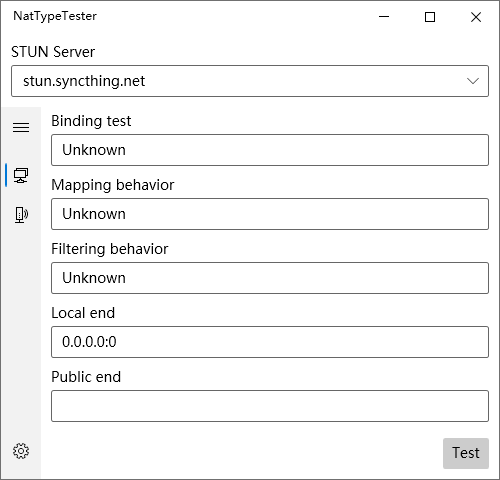
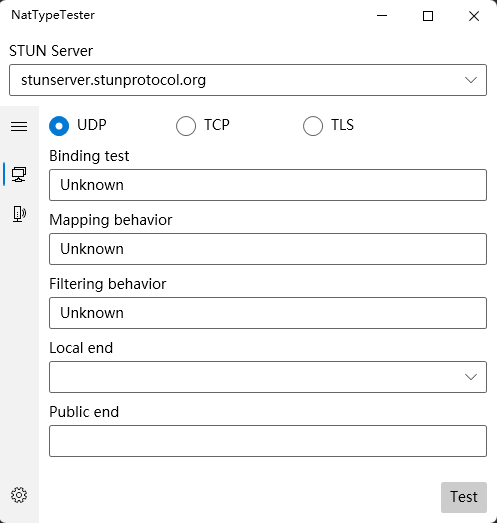
feat: Add tls support

diff --git a/NatTypeTester/Views/RFC5780View.xaml b/NatTypeTester/Views/RFC5780View.xaml
@@ -24,6 +24,7 @@
             <ui:RadioButtons x:Name="TransportTypeRadioButtons" MaxColumns="4">
                 <RadioButton Content="UDP" />
                 <RadioButton Content="TCP" />
+                <RadioButton Content="TLS" />
             </ui:RadioButtons>
         </Grid>
         <TextBox

diff --git a/NatTypeTester.ViewModels/RFC5780ViewModel.cs b/NatTypeTester.ViewModels/RFC5780ViewModel.cs
@@ -38,6 +38,7 @@ public class RFC5780ViewModel : ViewModelBase, IRoutableViewModel
 
 	private StunResult5389 _udpResult;
 	private StunResult5389 _tcpResult;
+	private StunResult5389 _tlsResult;
 
 	private TransportType _transportType;
 	public TransportType TransportType
@@ -52,13 +53,14 @@ public class RFC5780ViewModel : ViewModelBase, IRoutableViewModel
 	{
 		_udpResult = new StunResult5389();
 		_tcpResult = new StunResult5389();
+		_tlsResult = new StunResult5389();
 		_result5389 = _udpResult;
 		DiscoveryNatType = ReactiveCommand.CreateFromTask(DiscoveryNatTypeAsync);
 	}
 
 	private async Task DiscoveryNatTypeAsync(CancellationToken token)
 	{
-		Verify.Operation(StunServer.TryParse(Config.StunServer, out StunServer? server), @"Wrong STUN Server!");
+		Verify.Operation(StunServer.TryParse(Config.StunServer, out StunServer? server, TransportType is TransportType.Tls ? StunServer.DefaultTlsPort : StunServer.DefaultPort), @"Wrong STUN Server!");
 
 		if (!HostnameEndpoint.TryParse(Config.ProxyServer, out HostnameEndpoint? proxyIpe))
 		{
@@ -94,7 +96,8 @@ public class RFC5780ViewModel : ViewModelBase, IRoutableViewModel
 			}
 		}
 
-		if (TransportType is TransportType.Udp)
+		TransportType transport = TransportType;
+		if (transport is TransportType.Udp)
 		{
 			using IUdpProxy proxy = ProxyFactory.CreateProxy(Config.ProxyType, Result5389.LocalEndPoint, socks5Option);
 			using StunClient5389UDP client = new(new IPEndPoint(serverIp, server.Port), Result5389.LocalEndPoint, proxy);
@@ -124,28 +127,46 @@ public class RFC5780ViewModel : ViewModelBase, IRoutableViewModel
 		}
 		else
 		{
-			using ITcpProxy proxy = ProxyFactory.CreateProxy(Config.ProxyType, socks5Option);
+			using ITcpProxy proxy = ProxyFactory.CreateProxy(transport, Config.ProxyType, socks5Option, server.Hostname);
 			using IStunClient5389 client = new StunClient5389TCP(new IPEndPoint(serverIp, server.Port), Result5389.LocalEndPoint, proxy);
 
 			try
 			{
 				using (Observable.Interval(TimeSpan.FromSeconds(0.1))
 						.ObserveOn(RxApp.MainThreadScheduler)
-						// ReSharper disable once AccessToDisposedClosure
-						.Subscribe(_ => Result5389 = _tcpResult = client.State with { }))
+						.Subscribe(_ => UpdateData()))
 				{
 					await client.QueryAsync(token);
 				}
 			}
 			finally
 			{
-				Result5389 = _tcpResult = client.State with { };
+				UpdateData();
+			}
+
+			void UpdateData()
+			{
+				// ReSharper disable once AccessToDisposedClosure
+				Result5389 = client.State with { };
+				if (transport is TransportType.Tcp)
+				{
+					_tcpResult = Result5389;
+				}
+				else
+				{
+					_tlsResult = Result5389;
+				}
 			}
 		}
 	}
 
 	public void ResetResult()
 	{
-		Result5389 = TransportType is TransportType.Udp ? _udpResult : _tcpResult;
+		Result5389 = TransportType switch
+		{
+			TransportType.Tcp => _tcpResult,
+			TransportType.Tls => _tlsResult,
+			_ => _udpResult
+		};
 	}
 }

diff --git a/UnitTest/StunClient5389TCPTest.cs b/UnitTest/StunClient5389TCPTest.cs
@@ -87,25 +87,26 @@ public class StunClient5389TCPTest
 
 		foreach (string host in list)
 		{
-			if (!HostnameEndpoint.TryParse(host, out HostnameEndpoint? hostEndpoint, 3478))
-			{
-				continue;
-			}
-
-			IPAddress ip = await _dnsClient.QueryAsync(hostEndpoint.Hostname);
-			using IStunClient5389 client = new StunClient5389TCP(new IPEndPoint(ip, hostEndpoint.Port), Any);
 			try
 			{
+				if (!HostnameEndpoint.TryParse(host, out HostnameEndpoint? hostEndpoint, StunServer.DefaultPort))
+				{
+					continue;
+				}
+
+				IPAddress ip = await _dnsClient.QueryAsync(hostEndpoint.Hostname);
+				using IStunClient5389 client = new StunClient5389TCP(new IPEndPoint(ip, hostEndpoint.Port), Any);
+
 				await client.QueryAsync();
+
+				if (client.State.MappingBehavior is MappingBehavior.AddressAndPortDependent or MappingBehavior.AddressDependent or MappingBehavior.EndpointIndependent or MappingBehavior.Direct)
+				{
+					Console.WriteLine(host);
+				}
 			}
 			catch
 			{
 				// ignored
-			}
-
-			if (client.State.MappingBehavior is MappingBehavior.AddressAndPortDependent or MappingBehavior.AddressDependent or MappingBehavior.EndpointIndependent or MappingBehavior.Direct)
-			{
-				Console.WriteLine(host);
 			}
 		}
 	}
@@ -121,26 +122,27 @@ public class StunClient5389TCPTest
 
 		foreach (string host in list)
 		{
-			if (!HostnameEndpoint.TryParse(host, out HostnameEndpoint? hostEndpoint, StunServer.DefaultTlsPort))
-			{
-				continue;
-			}
-
-			IPAddress ip = await _dnsClient.QueryAsync(hostEndpoint.Hostname);
-			ITcpProxy proxy = new TlsProxy(hostEndpoint.Hostname);
-			using IStunClient5389 client = new StunClient5389TCP(new IPEndPoint(ip, StunServer.DefaultTlsPort), Any, proxy);
 			try
 			{
+				if (!HostnameEndpoint.TryParse(host, out HostnameEndpoint? hostEndpoint, StunServer.DefaultTlsPort))
+				{
+					continue;
+				}
+
+				IPAddress ip = await _dnsClient.QueryAsync(hostEndpoint.Hostname);
+				ITcpProxy proxy = new TlsProxy(hostEndpoint.Hostname);
+				using IStunClient5389 client = new StunClient5389TCP(new IPEndPoint(ip, StunServer.DefaultTlsPort), Any, proxy);
+
 				await client.QueryAsync();
+
+				if (client.State.MappingBehavior is MappingBehavior.AddressAndPortDependent or MappingBehavior.AddressDependent or MappingBehavior.EndpointIndependent or MappingBehavior.Direct)
+				{
+					Console.WriteLine(host);
+				}
 			}
 			catch
 			{
-				continue;
-			}
-
-			if (client.State.MappingBehavior is MappingBehavior.AddressAndPortDependent or MappingBehavior.AddressDependent or MappingBehavior.EndpointIndependent or MappingBehavior.Direct)
-			{
-				Console.WriteLine(host);
+				// ignored
 			}
 		}
 	}

diff --git a/STUN/Proxy/Socks5TcpProxy.cs b/STUN/Proxy/Socks5TcpProxy.cs
@@ -3,8 +3,6 @@ using Socks5.Clients;
 using Socks5.Models;
 using System.IO.Pipelines;
 using System.Net;
-using System.Net.Sockets;
-using System.Reflection;
 
 namespace STUN.Proxy;
 
@@ -15,7 +13,7 @@ public class Socks5TcpProxy : ITcpProxy, IDisposableObservable
 		get
 		{
 			Verify.NotDisposed(this);
-			return GetTcpClient()?.Client.LocalEndPoint as IPEndPoint;
+			return Socks5Client?.TcpClient.Client.LocalEndPoint as IPEndPoint;
 		}
 	}
 
@@ -41,7 +39,7 @@ public class Socks5TcpProxy : ITcpProxy, IDisposableObservable
 
 		Socks5Client = new Socks5Client(Socks5Options);
 
-		GetTcpClient()?.Client.Bind(local);
+		Socks5Client.TcpClient.Client.Bind(local);
 
 		await Socks5Client.ConnectAsync(dst.Address, (ushort)dst.Port, cancellationToken);
 
@@ -57,12 +55,6 @@ public class Socks5TcpProxy : ITcpProxy, IDisposableObservable
 		return default;
 	}
 
-	protected TcpClient? GetTcpClient()
-	{
-		// TODO
-		return Socks5Client?.GetType().GetField(@"_tcpClient", BindingFlags.NonPublic | BindingFlags.Instance)?.GetValue(Socks5Client) as TcpClient;
-	}
-
 	protected virtual void CloseClient()
 	{
 		if (Socks5Client is null)
@@ -72,7 +64,7 @@ public class Socks5TcpProxy : ITcpProxy, IDisposableObservable
 
 		try
 		{
-			GetTcpClient()?.Client.Close(0);
+			Socks5Client.TcpClient.Client.Close(0);
 		}
 		finally
 		{

diff --git a/STUN/Proxy/ProxyFactory.cs b/STUN/Proxy/ProxyFactory.cs
@@ -28,23 +28,33 @@ public static class ProxyFactory
 		}
 	}
 
-	public static ITcpProxy CreateProxy(ProxyType type, Socks5CreateOption option)
+	public static ITcpProxy CreateProxy(TransportType transport, ProxyType type, Socks5CreateOption option, string targetHost)
 	{
-		switch (type)
+		switch (transport, type)
 		{
-			case ProxyType.Plain:
+			case (TransportType.Tcp, ProxyType.Plain):
 			{
 				return new DirectTcpProxy();
 			}
-			case ProxyType.Socks5:
+			case (TransportType.Tcp, ProxyType.Socks5):
 			{
 				Requires.NotNull(option, nameof(option));
 				Requires.Argument(option.Address is not null, nameof(option), @"Proxy server is null");
 				return new Socks5TcpProxy(option);
 			}
+			case (TransportType.Tls, ProxyType.Plain):
+			{
+				return new TlsProxy(targetHost);
+			}
+			case (TransportType.Tls, ProxyType.Socks5):
+			{
+				Requires.NotNull(option, nameof(option));
+				Requires.Argument(option.Address is not null, nameof(option), @"Proxy server is null");
+				return new TlsOverSocks5Proxy(option, targetHost);
+			}
 			default:
 			{
-				throw Assumes.NotReachable();
+				throw new NotSupportedException();
 			}
 		}
 	}

diff --git a/STUN/Proxy/TlsOverSocks5Proxy.cs b/STUN/Proxy/TlsOverSocks5Proxy.cs
@@ -1,0 +1,36 @@
+using Pipelines.Extensions;
+using Socks5.Models;
+using System.IO.Pipelines;
+using System.Net;
+using System.Net.Security;
+
+namespace STUN.Proxy;
+
+public class TlsOverSocks5Proxy : Socks5TcpProxy
+{
+	private SslStream? _tlsStream;
+
+	private readonly string _targetHost;
+
+	public TlsOverSocks5Proxy(Socks5CreateOption socks5Options, string targetHost) : base(socks5Options)
+	{
+		_targetHost = targetHost;
+	}
+
+	public override async ValueTask<IDuplexPipe> ConnectAsync(IPEndPoint local, IPEndPoint dst, CancellationToken cancellationToken = default)
+	{
+		IDuplexPipe pipe = await base.ConnectAsync(local, dst, cancellationToken);
+
+		_tlsStream = new SslStream(pipe.AsStream(true));
+
+		await _tlsStream.AuthenticateAsClientAsync(_targetHost);
+
+		return _tlsStream.AsDuplexPipe();
+	}
+
+	protected override void CloseClient()
+	{
+		_tlsStream?.Dispose();
+		base.CloseClient();
+	}
+}

diff --git a/UnitTest/XorMappedTest.cs b/UnitTest/XorMappedTest.cs
@@ -34,7 +34,7 @@ public class XorMappedTest
 	private readonly byte[] _ipv6Response = new byte[] { 0x00, (byte)IpFamily.IPv6 }.Concat(XorPort).Concat(XorIPv6).ToArray();
 
 	/// <summary>
-	/// https://tools.ietf.org/html/rfc5769.html
+	/// https://datatracker.ietf.org/doc/html/rfc5769.html
 	/// </summary>
 	[TestMethod]
 	public void TestXorMapped()

diff --git a/README.md b/README.md
@@ -4,16 +4,11 @@ Channel | Status
 CI | [![CI](https://github.com/HMBSbige/NatTypeTester/workflows/CI/badge.svg)](https://github.com/HMBSbige/NatTypeTester/actions)
 Stun.Net | [![NuGet.org](https://img.shields.io/nuget/v/Stun.Net.svg?logo=nuget)](https://www.nuget.org/packages/Stun.Net/)
 
-## RFC supports
+## RFC
 
-- [x] [RFC 3489](https://datatracker.ietf.org/doc/html/rfc3489)
-- [x] [RFC 5389](https://datatracker.ietf.org/doc/html/rfc5389)
-- [x] [RFC 5769](https://datatracker.ietf.org/doc/html/rfc5769)
-- [x] [RFC 5780](https://datatracker.ietf.org/doc/html/rfc5780)
-- [ ] [RFC 7350](https://datatracker.ietf.org/doc/html/rfc7350)
-- [ ] [RFC 7443](https://datatracker.ietf.org/doc/html/rfc7443)
-- [ ] [RFC 7635](https://datatracker.ietf.org/doc/html/rfc7635)
-- [ ] [RFC 8489](https://datatracker.ietf.org/doc/html/rfc8489)
+* [RFC 3489](https://datatracker.ietf.org/doc/html/rfc3489)
+* [RFC 5780](https://datatracker.ietf.org/doc/html/rfc5780)
+* [RFC 8489](https://datatracker.ietf.org/doc/html/rfc8489)
 
 ## Internet Protocol
 
@@ -23,9 +18,8 @@ Stun.Net | [![NuGet.org](https://img.shields.io/nuget/v/Stun.Net.svg?logo=nuget)
 ## Transmission Protocol
 
 - [x] UDP
-- [ ] TCP
-- [ ] TLS-over-TCP
-- [ ] DTLS-over-UDP
+- [x] TCP
+- [x] TLS-over-TCP
 
 ## Preview
 ![](pic/1.png)
